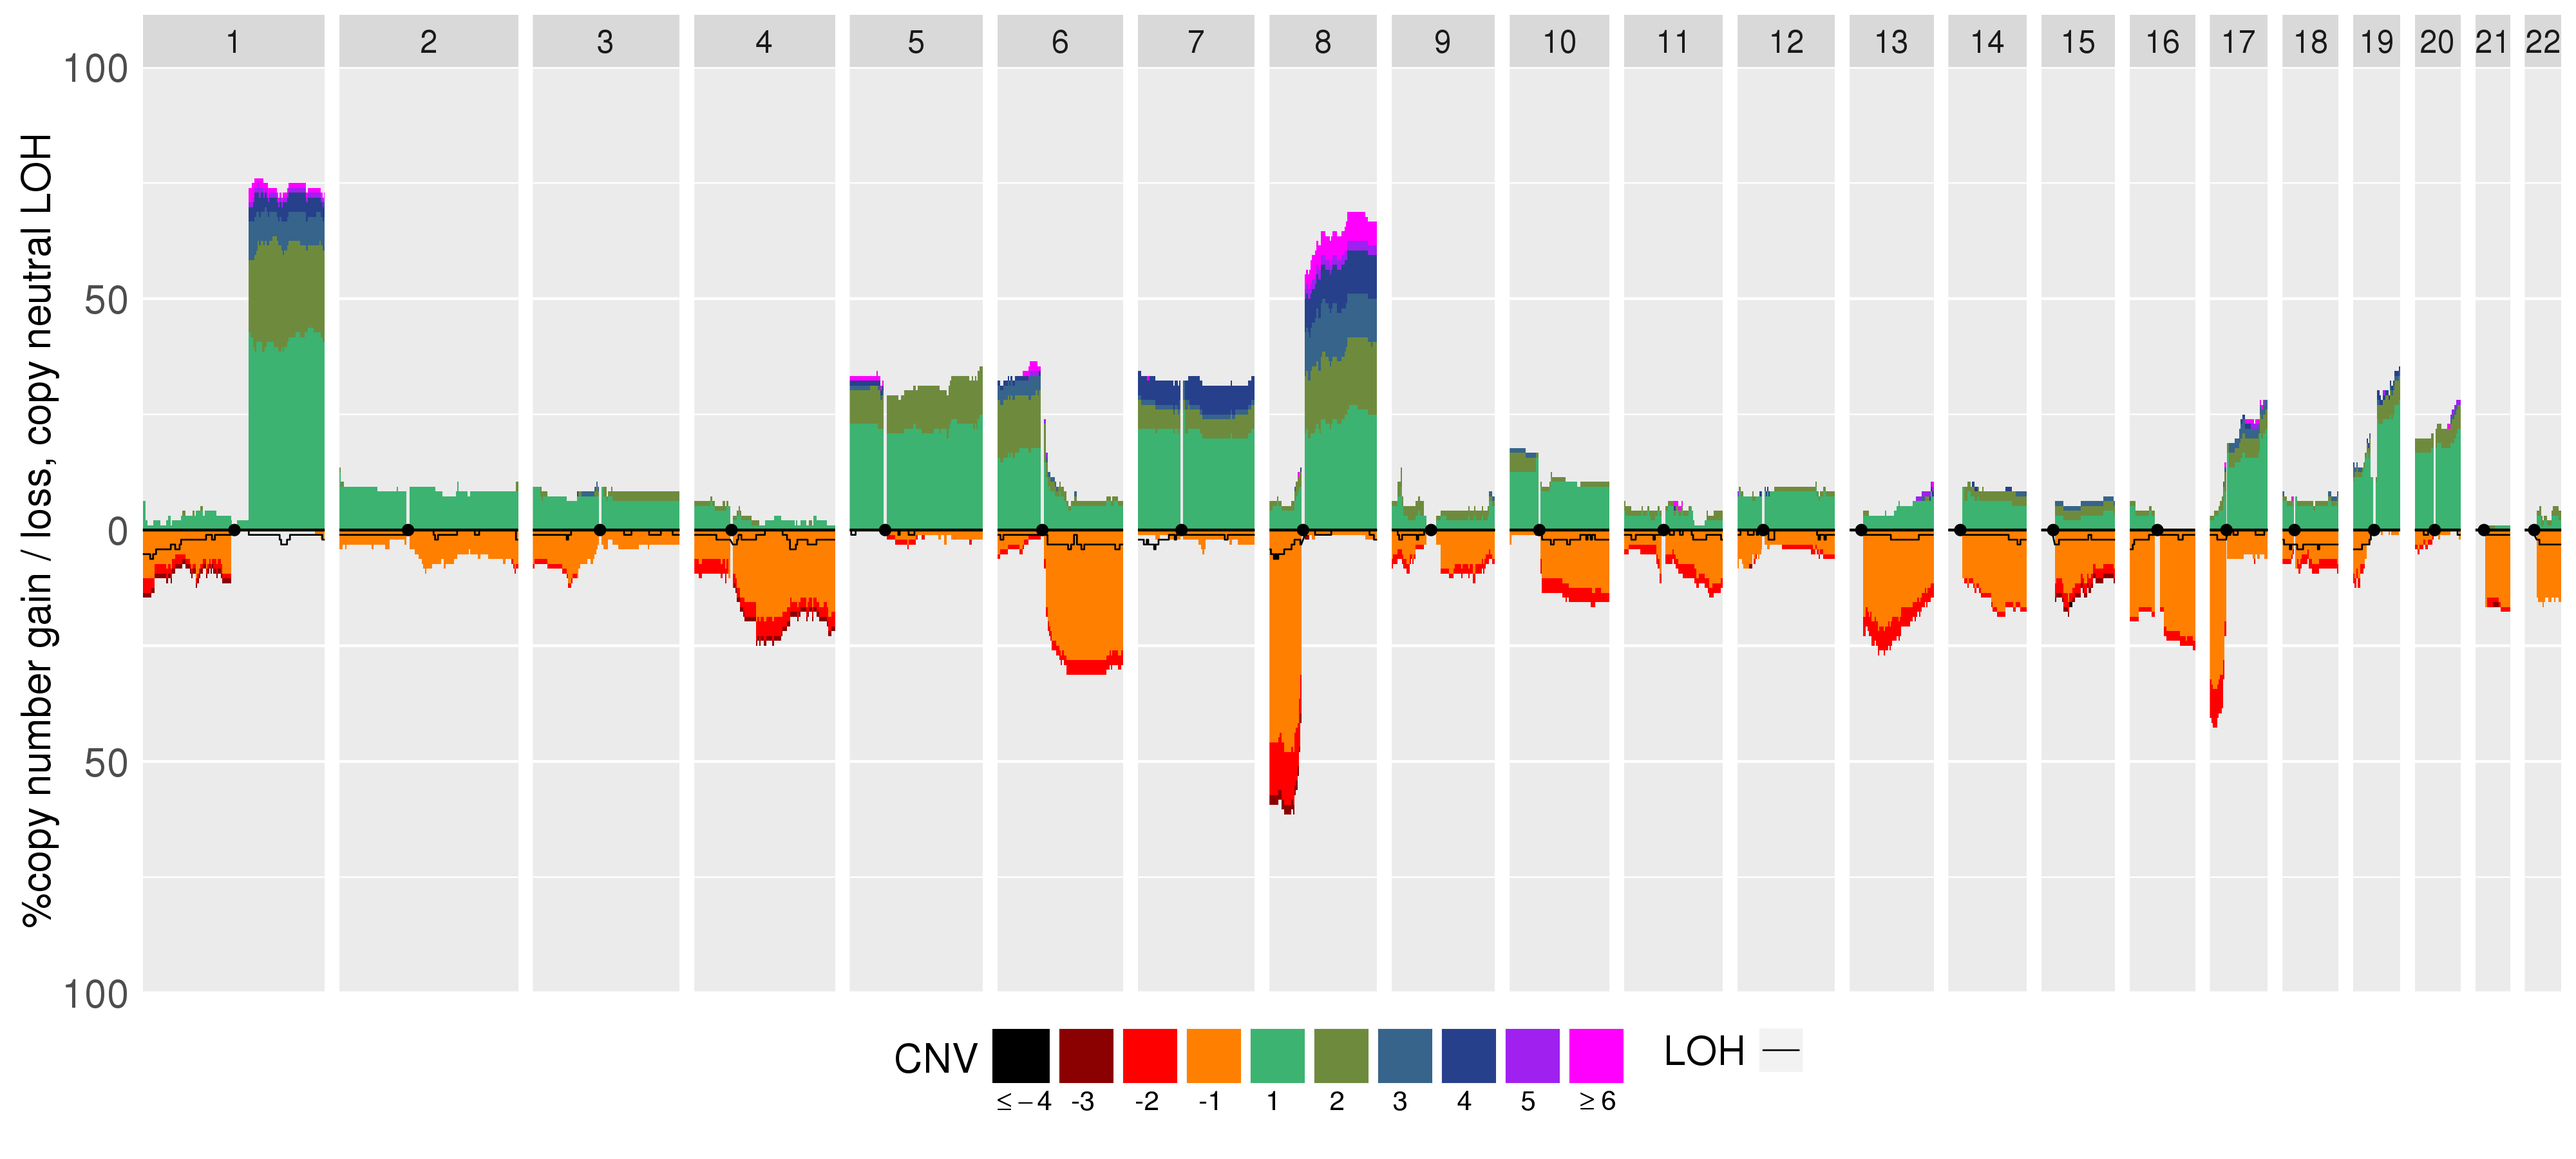
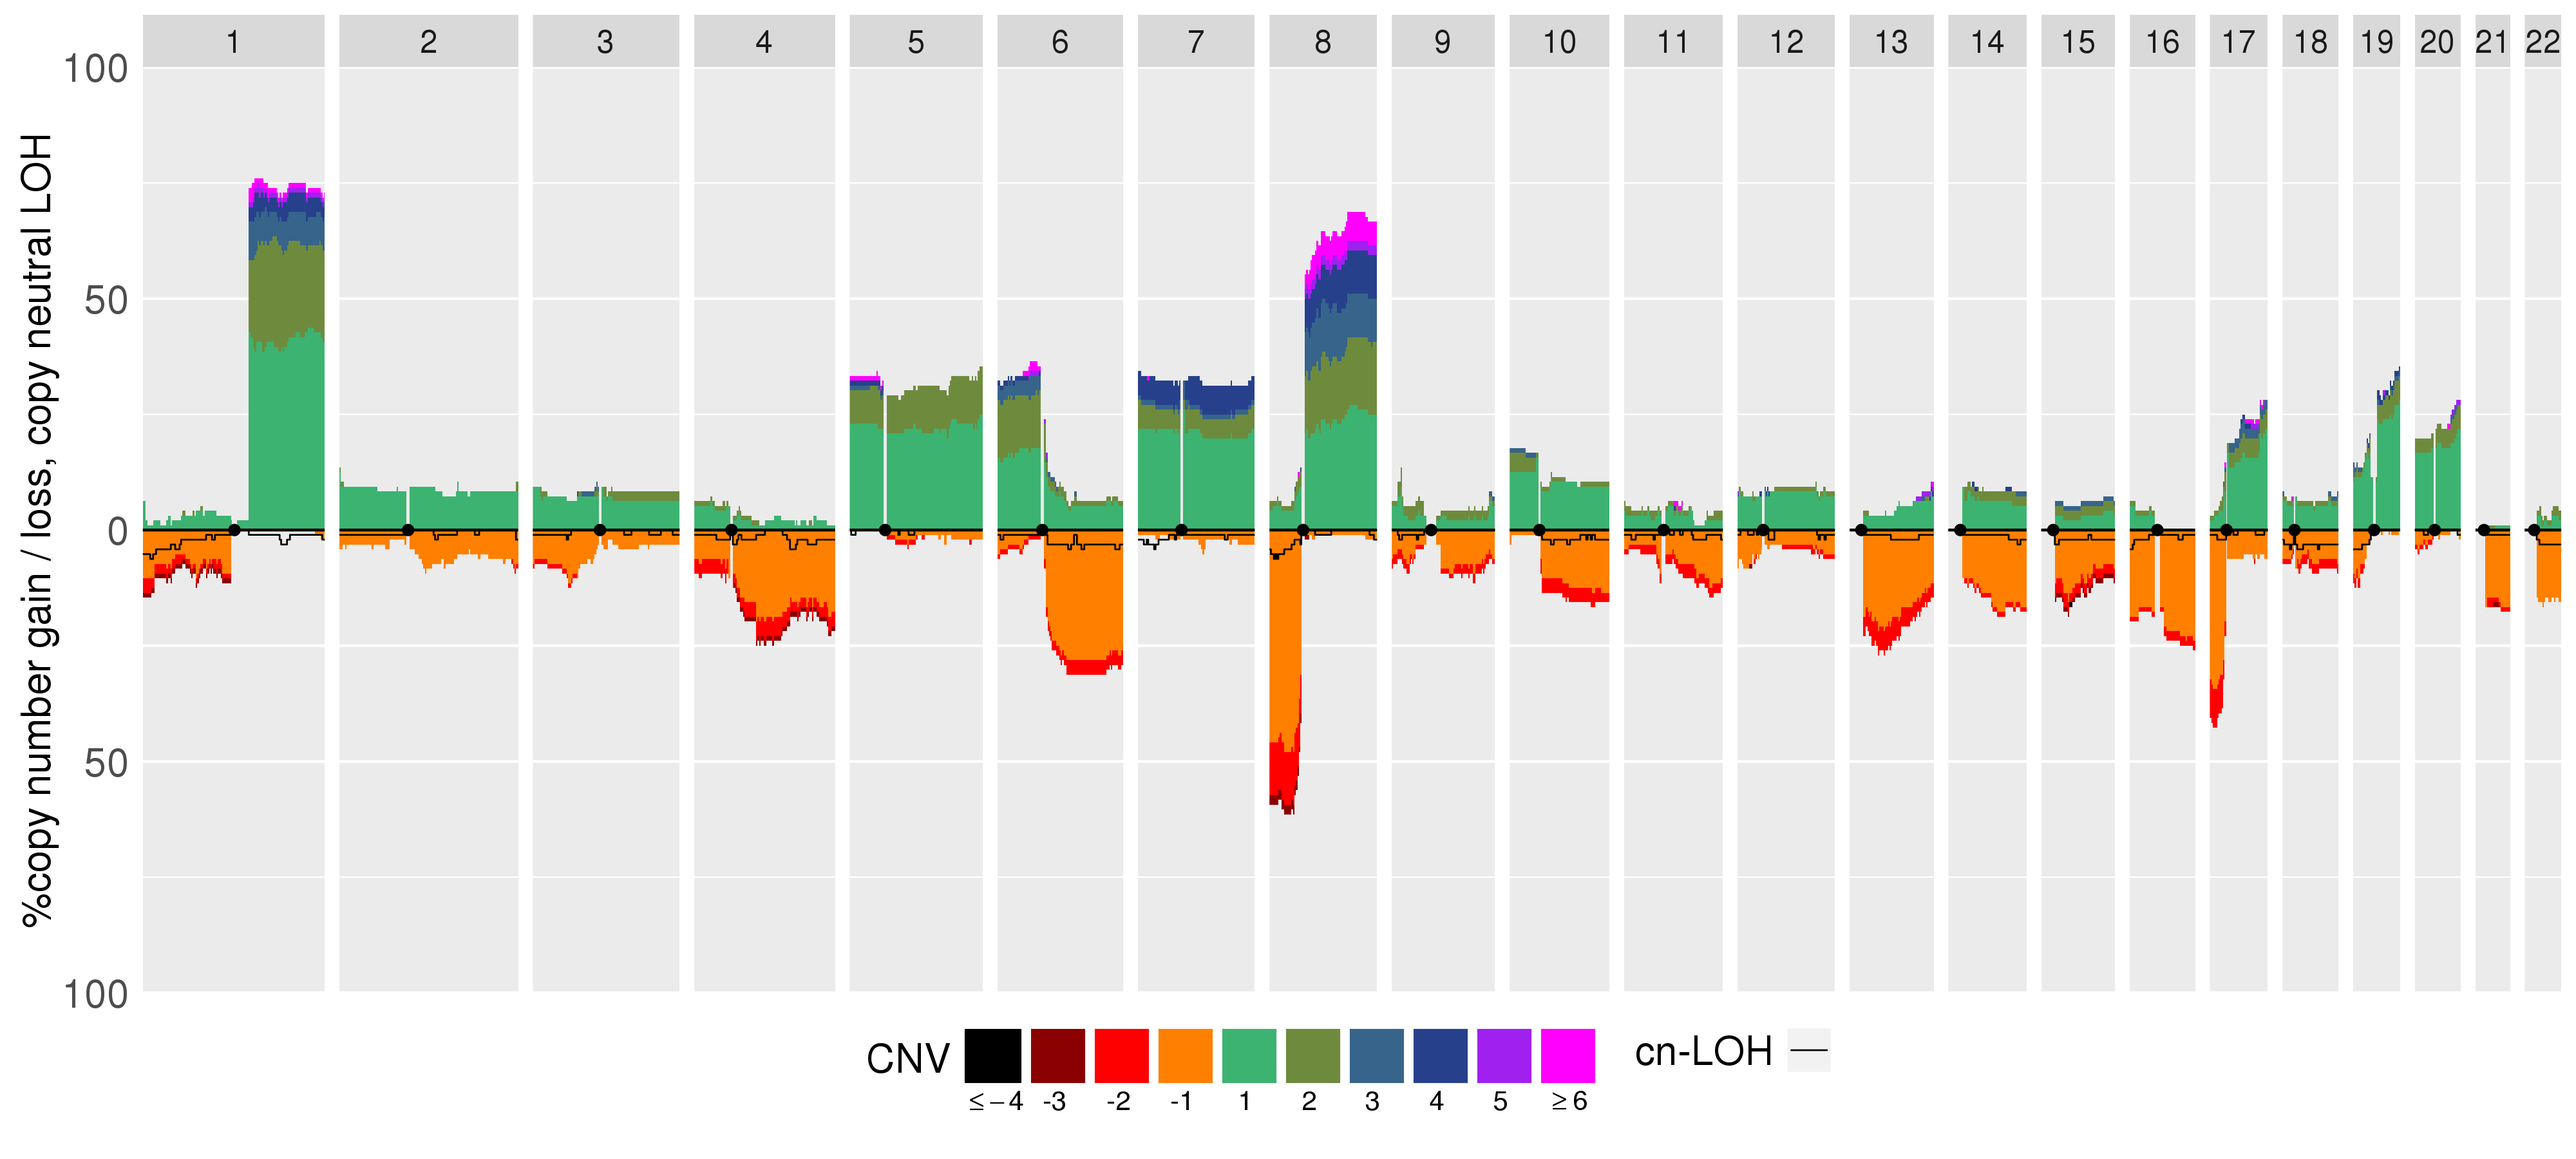
README updated

Changed region(s): [[0.3438, 0.8711, 0.6875, 0.9644]]

diff --git a/README.md b/README.md
@@ -61,16 +61,18 @@ Let's respectively call `aCNViewer_TEST_DATA` and `BIN_DIR` the location where r
 
 
 #####TestAffy: generate a quantitative stacked histogram from CEL files with a window size of 2Mbp
-`python aCNViewer.py -f CEL_DIR -c CHR_SIZE_FILE -t OUTPUT_DIR --histogram 1 -C CENTROMERE_FILE -w WINDOW_SIZE -b BIN_DIR --gcFile ASCAT_GC_FILE --platform AFFY_PLATFORM -l AFFY_LIB_DIR --gw6Dir GW6_DIR`<br>
+`python aCNViewer.py -f CEL_DIR -c CHR_SIZE_FILE -t OUTPUT_DIR --histogram 1 -C CENTROMERE_FILE -w WINDOW_SIZE -b BIN_DIR --gcFile ASCAT_GC_FILE --platform AFFY_PLATFORM -l AFFY_LIB_DIR --gw6Dir GW6_DIR [--lohToPlot LOH_TO_PLOT] [--rColorFile RCOLOR_FILE]`<br>
 where:
 * `CEL_DIR` is the folder containing ".cel" ou ".cel.gz" files
 * <a id="chrSize"></a>`CHR_SIZE_FILE`: a tab-delimited file with 2 columns respectively chromosome name and chromosome length
 * <a id="windowSize"></a>`WINDOW_SIZE`: segment size in bp. Please note that alternatively, `-p PERCENTAGE` can be used instead of `-w WINDOW_SIZE` in order to set the segment size in percentage of chromosome length where `PERCENTAGE` is a floating number between 0 and 100
 * <a id="centromereFile"></a>`CENTROMERE_FILE`: : file giving the centromere bounds. Can be generated using `curl -s "http://hgdownload.cse.ucsc.edu/goldenPath/BUILD/database/cytoBand.txt.gz" | gunzip -c | grep acen > centro_build.txt`
-* `ASCAT_GC_FILE`: GC content file necessary for ASCAT GC correction when analyzing SNP array data. Please check [ASCAT website](https) for available GC content files
-* `AFFY_PLATFORM`: name of ASCAT supported Affymetrix platform with a GC content file available ("Affy250k_sty", "Affy250k_nsp", "Affy500k" or "AffySNP6"). Please refer to [ASCAT website](//www.crick.ac.uk/peter-van-loo/software/ASCAT) for more details
+* `ASCAT_GC_FILE`: GC content file necessary for ASCAT GC correction when analyzing SNP array data. Please check [ASCAT website](https://www.crick.ac.uk/peter-van-loo/software/ASCAT) for available GC content files
+* `AFFY_PLATFORM`: name of ASCAT supported Affymetrix platform with a GC content file available ("Affy250k_sty", "Affy250k_nsp", "Affy500k" or "AffySNP6"). Please refer to [ASCAT website](https://www.crick.ac.uk/peter-van-loo/software/ASCAT) for more details
 * `AFFY_LIB_DIR`: Affymetrix library file downloadable from [Affymetrix website](http://www.affymetrix.com/support/technical/byproduct.affx?cat=dnaarrays)
 * `GW6_DIR` refers to the folder where [gw6.tar.gz](http://www.openbioinformatics.org/penncnv/download/gw6.tar.gz) has been uncompressed into. This archive contains different programs and files necessary to process Affymetrix SNP array
+* <a id="lohToPlot"></a>`LOH_TO_PLOT`: histogram option for LOH plotting. Values should be one of "cn-LOH" for plotting cn-LOH only, "LOH" for LOH only or "both" for cn-LOH and LOH. The default value is "cn-LOH"
+* <a id="rColorFile"></a> `RCOLOR_FILE`: colors in histograms (section "[histogram]". If defined, should contain exactly 10 colors [one per line] corresponding to CNV values in the following order: "&le; -4", "-3", "-2", "-1", "1", "2", "3", "4", "5", "&ge; 6"), dendrograms (section "[group]". If defined, should contain at least the same number of colors than the number of distinct values for the phenotypic / clinical feature of interest) and heatmaps (sections "[chr]" [if defined, should contain 22 colors corresponding to chromosomes 1 to 22], "[group]" and "[heatmap]" [if defined, should contain 10 colors [one per line] corresponding to CNV values in the following order: "0", "1", "2", "3", "4", "5", "6", "7", "8", "&ge; 9"]) can be redefined in that file. An example can be found [here](/img/rColor.txt).
 
 Here is an example:
 
@@ -90,7 +92,7 @@ Please note that while generating the histogram, the following files are created
 
 #####TestIlluminaWithoutNormalization
 
-`python aCNViewer.py -f REPORT_FILES -c CHR_SIZE_FILE --histogram 1 -m 1 -C CENTROMERE_FILE -w WINDOW_SIZE -b BIN_DIR [--sampleList SAMPLE_TO_PROCESS_FILE] -n 0 --probeFile PROBE_POS_FILE --platform ILLUMINA_PLATFORM -g ASCAT_GC_FILE`<br>
+`python aCNViewer.py -f REPORT_FILES -c CHR_SIZE_FILE --histogram 1 -m 1 -C CENTROMERE_FILE -w WINDOW_SIZE -b BIN_DIR [--sampleList SAMPLE_TO_PROCESS_FILE] -n 0 --probeFile PROBE_POS_FILE --platform ILLUMINA_PLATFORM -g ASCAT_GC_FILE [--lohToPlot LOH_TO_PLOT]`<br>
 where:
   * `REPORT_FILES` is the list of Illumina final report files to process specified either as a comma-separated string with all the report files to process or as a directory containing these files. Each Illumina final report file should contain at least the following columns:
     - `SNP Name`
@@ -105,11 +107,12 @@ where:
     - `Chr`
     - `MapInfo`
   * `ILLUMINA_PLATFORM`: name of ASCAT supported Illumina platform with a GC content file available ("Illumina660k" or "HumanOmniExpress12"). Please refer to [ASCAT website](//www.crick.ac.uk/peter-van-loo/software/ASCAT) for more details
-  * `ASCAT_GC_FILE`: GC content file necessary for ASCAT GC correction when analyzing SNP array data. Please check [ASCAT website](https) for available GC content files
+  * `ASCAT_GC_FILE`: GC content file necessary for ASCAT GC correction when analyzing SNP array data. Please check [ASCAT website](https://www.crick.ac.uk/peter-van-loo/software/ASCAT) for available GC content files
   * `SAMPLE_TO_PROCESS_FILE`: optional, used to specify list of samples to process in one of the following formats:
     - a comma-separated string listing all the samples to process
     - the name of text file with one line per sample to process
     - the name of a Python dump file with the extension ".pyDump"
+  * <a href="#lohToPlot">`LOH_TO_PLOT`</a>
 
 #####TestIlluminaWithTQN
 
@@ -162,7 +165,7 @@ Both examples below require to download [aCNViewer_TEST_DATA.tar.gz]().
 
 ####TestAffy2
 Generate quantitative stacked histogram from ASCAT segment files with a window size of 2Mbp:<br>
-`python aCNViewer.py -f ASCAT_SEGMENT_FILE -c CHR_SIZE_FILE -t OUTPUT_DIR --histogram 1 -C CENTROMERE_FILE -w WINDOW_SIZE -b BIN_DIR`<br>
+`python aCNViewer.py -f ASCAT_SEGMENT_FILE -c CHR_SIZE_FILE -t OUTPUT_DIR --histogram 1 -C CENTROMERE_FILE -w WINDOW_SIZE -b BIN_DIR [--lohToPlot LOH_TO_PLOT]`<br>
 where:
 * <a id="ascatSegmentFile"></a>`ASCAT_SEGMENT_FILE`: ASCAT segment file (`ascat.output$segments` obtained by running `ascat.runAscat`) with the following columns:
   + `sample`
@@ -174,6 +177,7 @@ where:
 * <a href="#chrSize">`CHR_SIZE_FILE`</a>
 * <a href="#centromereFile">`CENTROMERE_FILE`</a>
 * <a href="#windowSize">`WINDOW_SIZE`</a>
+* <a href="#lohToPlot">`LOH_TO_PLOT`</a>
 
 An example can be found below:
 
@@ -185,12 +189,13 @@ Compare `OUTPUT_DIR/GSE9845_lrr_baf.segments_merged_hist_2000000nt.png` with `aC
 
 ####TestSequenzaCNVs
 Generate quantitative stacked histogram from Sequenza results with a window size of 2Mbp:<br>
-`python aCNViewer.py -f SEQUENZA_RES_DIR --fileType Sequenza -c CHR_SIZE_FILE -t TARGET_DIR --histogram 1 -C CENTROMERE_FILE -w WINDOW_SIZE -b BIN_DIR`<br>
+`python aCNViewer.py -f SEQUENZA_RES_DIR --fileType Sequenza -c CHR_SIZE_FILE -t TARGET_DIR --histogram 1 -C CENTROMERE_FILE -w WINDOW_SIZE -b BIN_DIR [--lohToPlot LOH_TO_PLOT]`<br>
 where:
 * `SEQUENZA_RES_DIR` is the folder containing Sequenza results (`*_segments.txt`)
 * <a href="#chrSize">`CHR_SIZE_FILE`</a>
 * <a href="#centromereFile">`CENTROMERE_FILE`</a>
 * <a href="#windowSize">`WINDOW_SIZE`</a>
+* <a href="#lohToPlot">`LOH_TO_PLOT`</a>
 
 An example can be found below:
 
